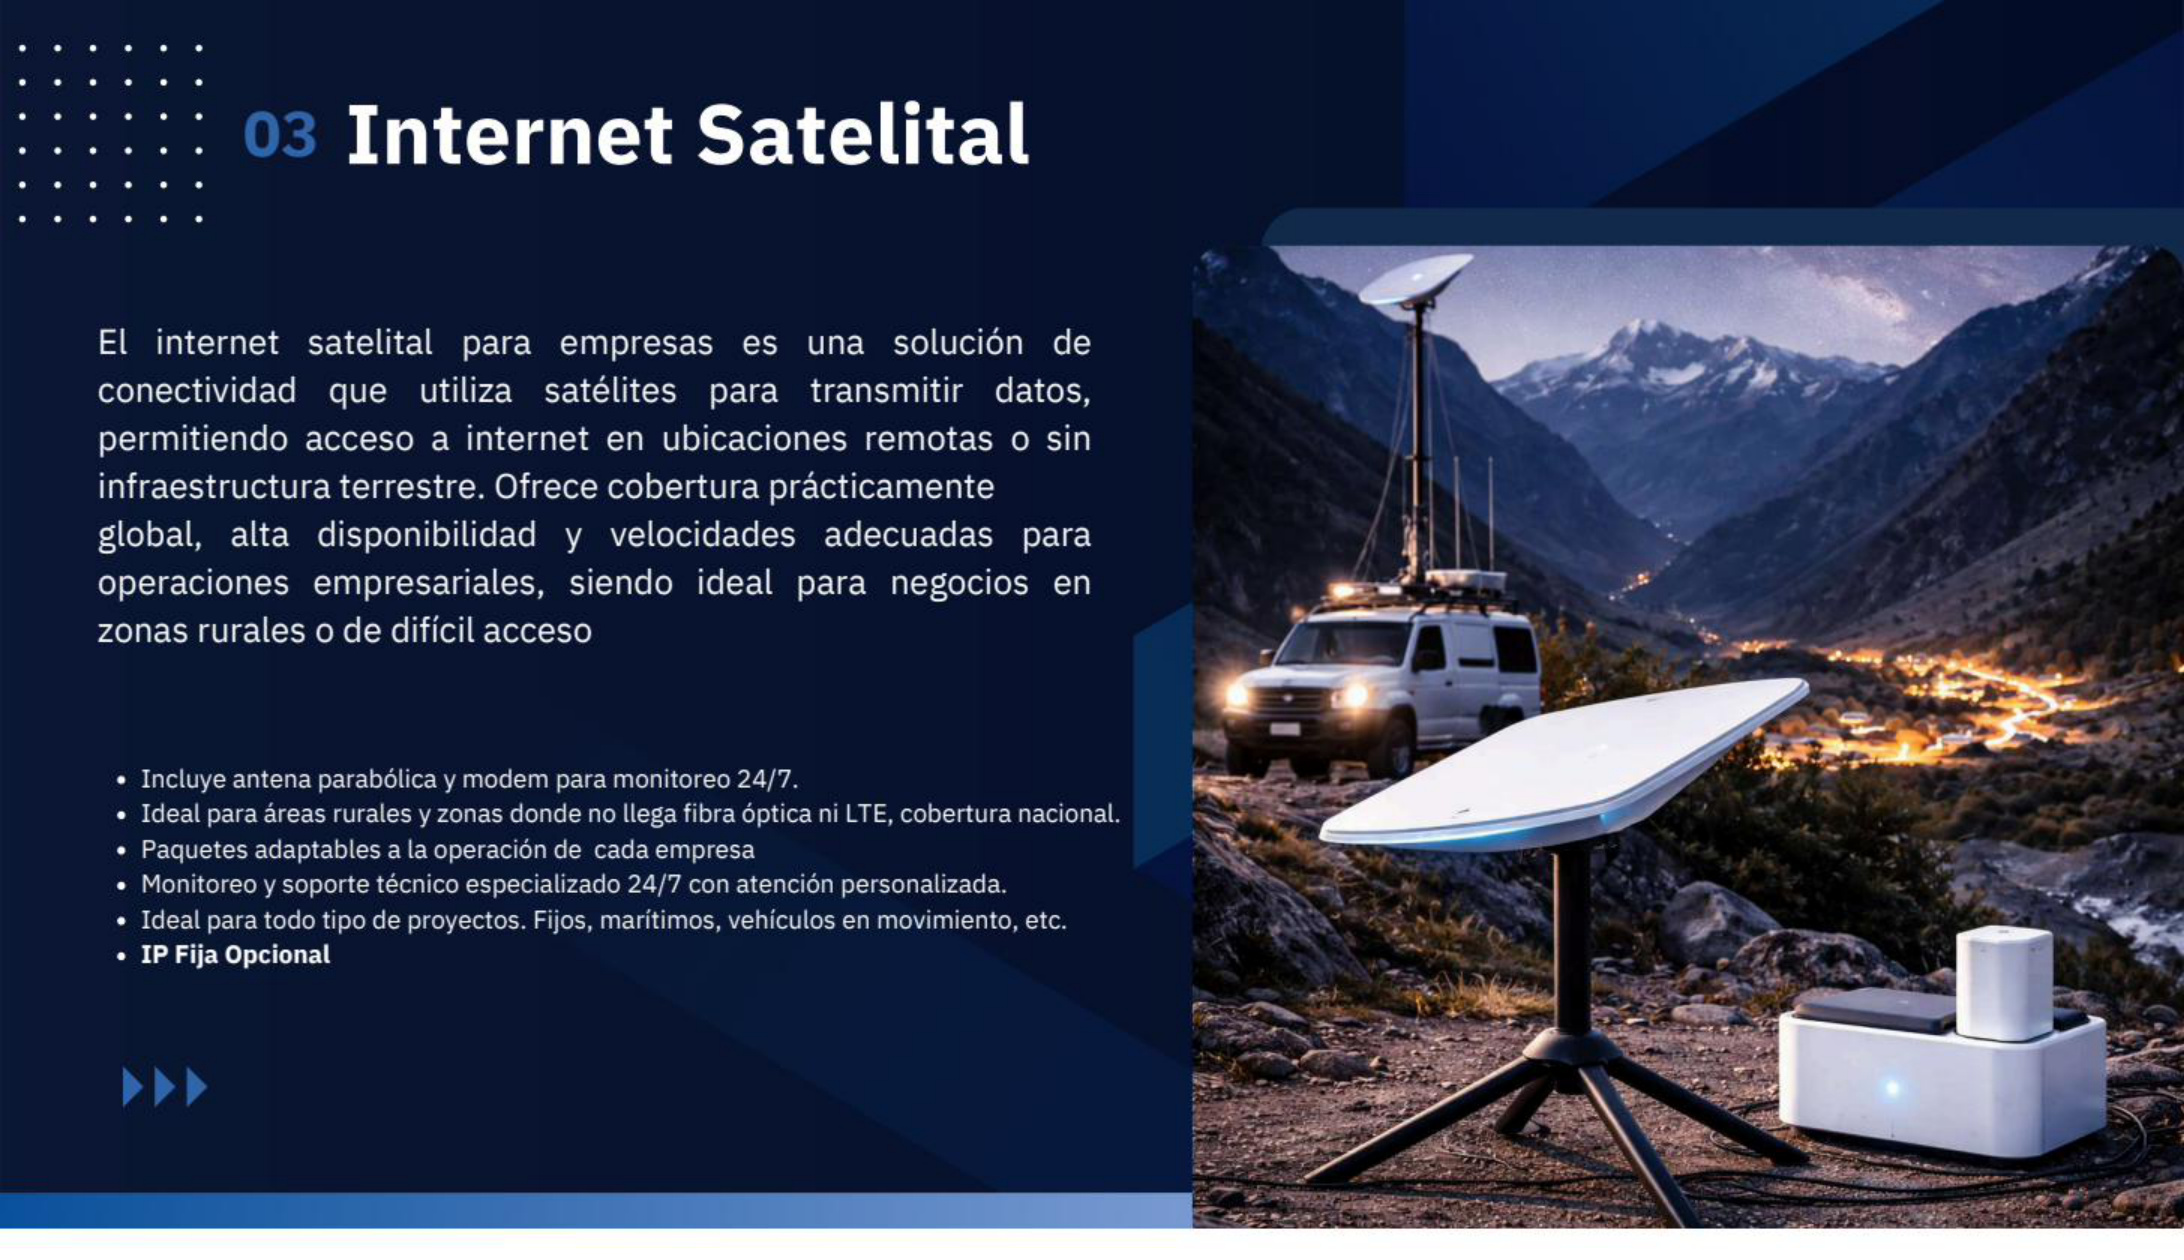
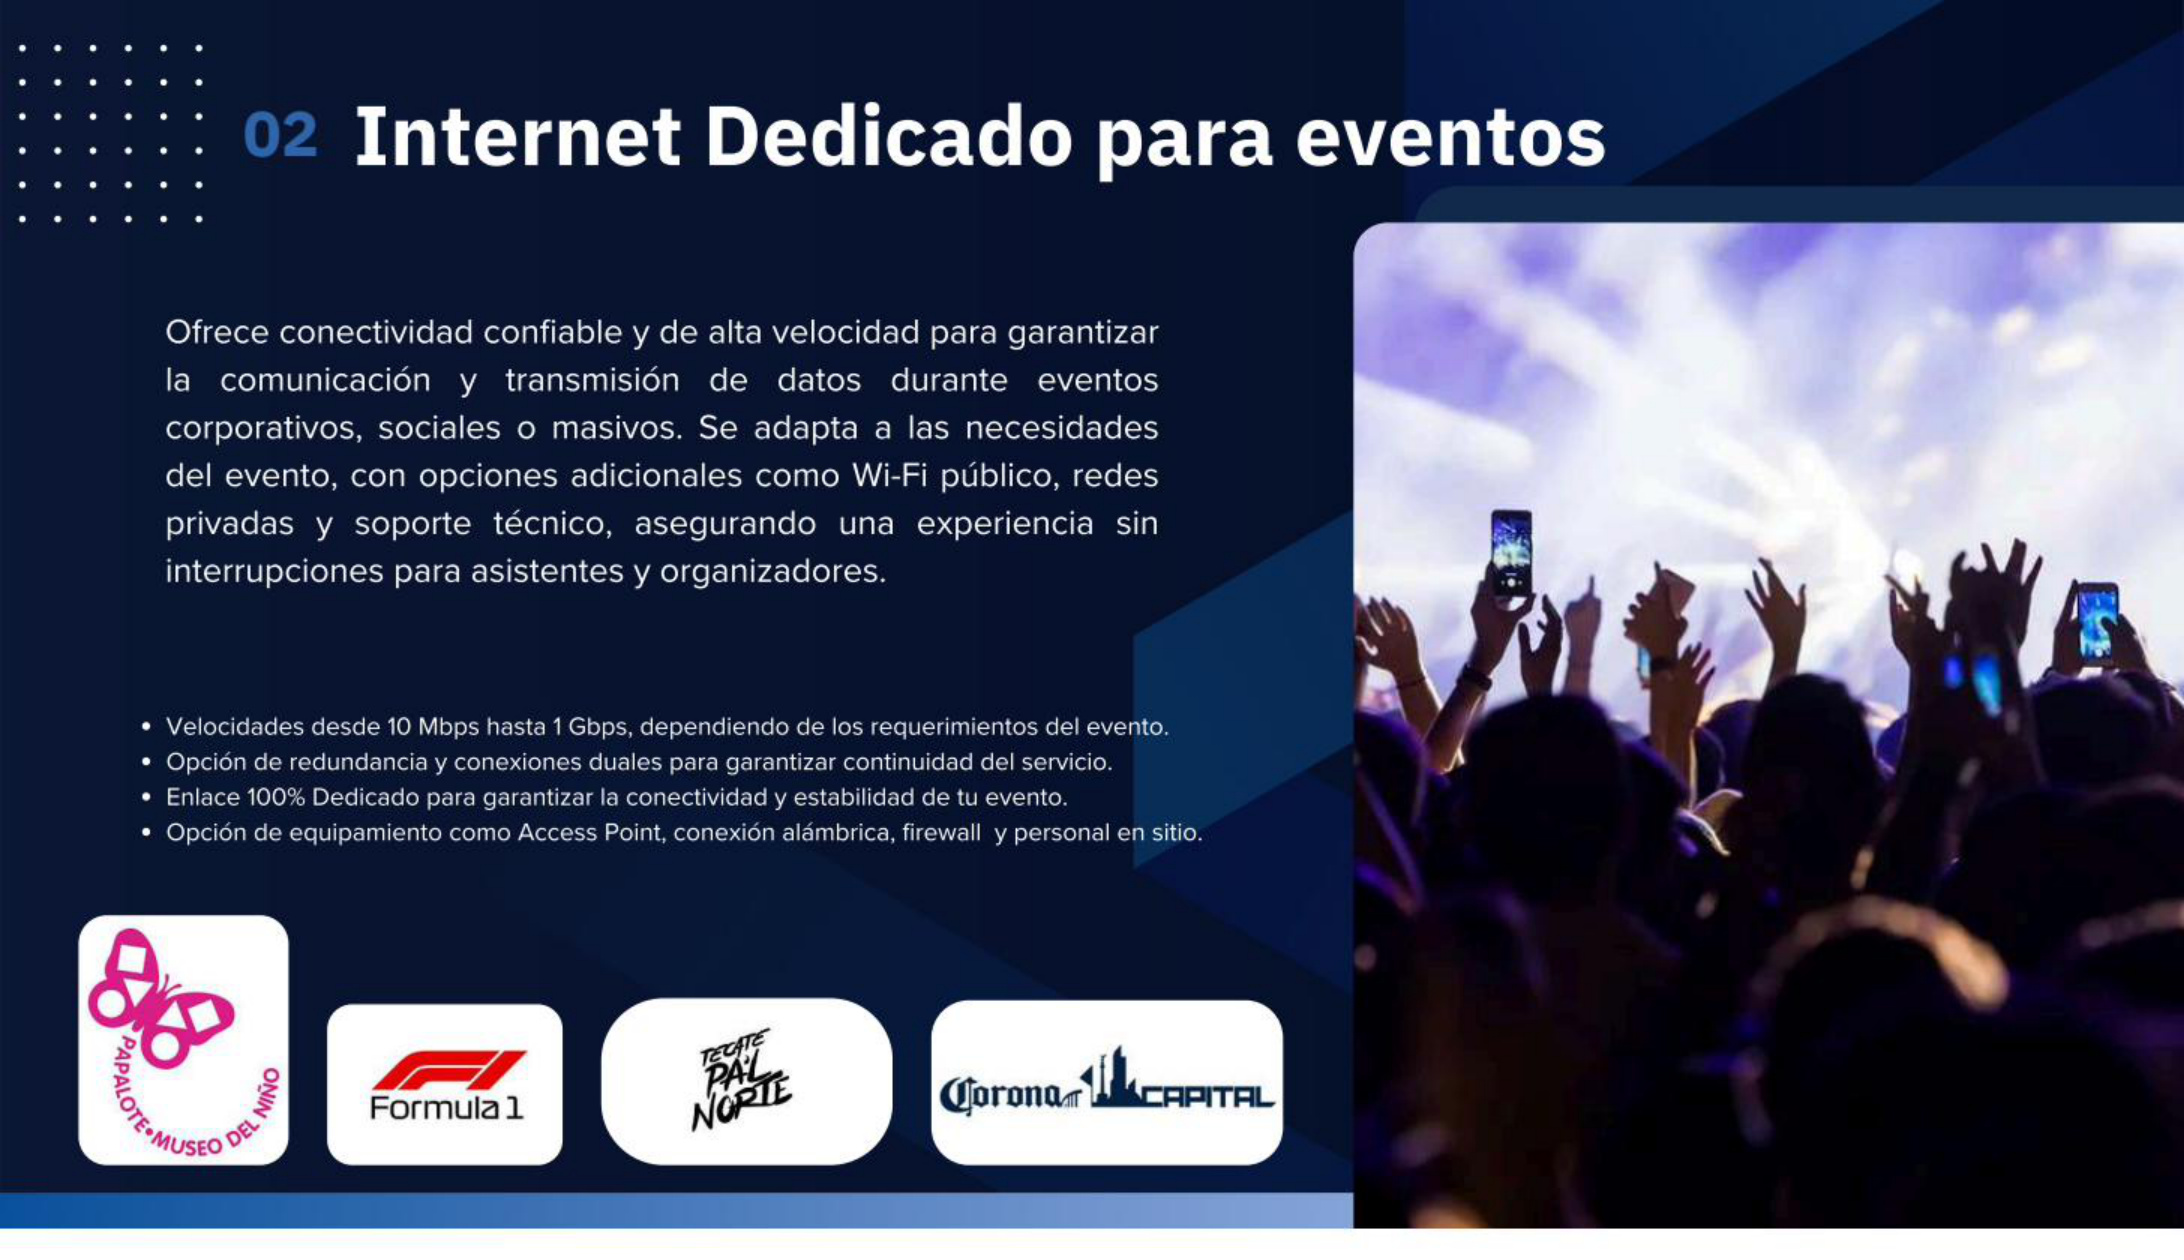
feat: todos los servicios calibrados - Eventos, LTE, Satelital, Dedicado, Telefonía, Ciberseguridad

diff --git a/cmc_pdf_generator_visual_v3.py b/cmc_pdf_generator_visual_v3.py
@@ -233,16 +233,20 @@ class CMCProposalGeneratorV3:
     # (left%, right%, top%, bottom%) — medidos y confirmados visualmente
     SERVICE_COND_TABLE_BOUNDS = {
         'Internet Dedicado':        (0.01,  0.526, 0.21,  0.88),
+        'Internet para Eventos':    (0.07,  0.55,  0.245, 0.55),
         'Internet Satelital':       (0.027, 0.53,  0.20,  0.888),
+        'Conectividad LTE':         (0.027, 0.527, 0.21,  0.88),
         'Telefonía IP':             (0.02,  0.52,  0.213, 0.58),
         'Telefonía IP / Cloud PBX': (0.02,  0.52,  0.213, 0.58),
         'Ciberseguridad Integral':  (0.04,  0.53,  0.20,  0.88),
     }
 
-    # Servicios que usan slide de condiciones del VIP como fondo
+    # Servicios que usan slide como fondo para página de condiciones
     SERVICES_WITH_COND_SLIDE = {
         'Internet Dedicado',
+        'Internet para Eventos',
         'Internet Satelital',
+        'Conectividad LTE',
         'Telefonía IP',
         'Telefonía IP / Cloud PBX',
         'Ciberseguridad Integral',
